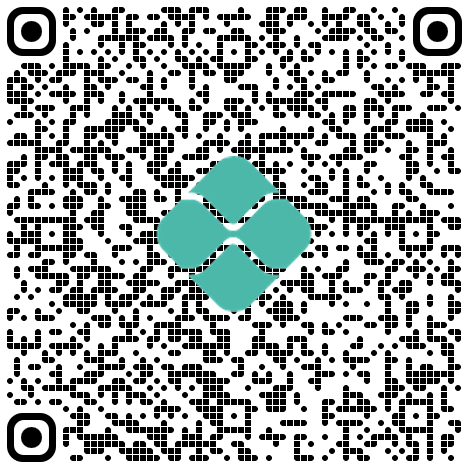
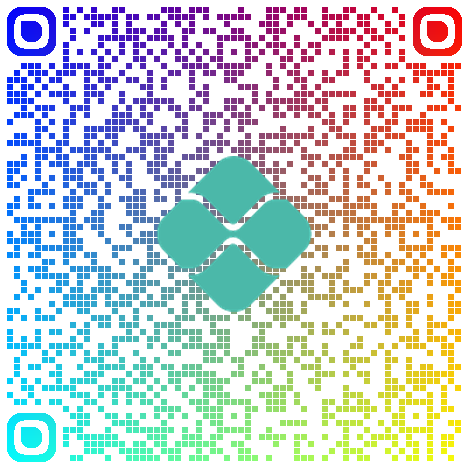
:lipstick: feat: adiciona degradê aos estilos.

diff --git a/pypix/core/qrgen.py b/pypix/core/qrgen.py
@@ -2,10 +2,11 @@ import qrcode
 from qrcode.image.styledpil import StyledPilImage
 from PIL import Image
 from typing import Optional
-from .styles.marker_styles import MarkerStyle, MARKER_SVGS
-from .styles.border_styles import BorderStyle, BORDER_SVGS
-from .styles.line_styles import LineStyle, LINE_STYLES
-from .utils.image_utils import svg_to_pil, add_center_image
+from pypix.core.styles.qr_styler import QRCodeStyler, GradientMode
+from pypix.core.styles.marker_styles import MarkerStyle, MARKER_SVGS
+from pypix.core.styles.border_styles import BorderStyle, BORDER_SVGS
+from pypix.core.styles.line_styles import LineStyle, LINE_STYLES
+from pypix.core.utils.image_utils import svg_to_pil, add_center_image
 
 
 class Generator(qrcode.QRCode):
@@ -16,6 +17,7 @@ class Generator(qrcode.QRCode):
         self.box_size = None
         self.error_correction = None
         self.version = None
+        self.style_mode = None
 
     def create_custom_qr(
         self,
@@ -26,11 +28,15 @@ class Generator(qrcode.QRCode):
         marker_style: MarkerStyle = MarkerStyle.PLUS,
         border_style: BorderStyle = BorderStyle.CIRCLE,
         line_style: LineStyle = LineStyle.ROUNDED,
+        gradient_color: str = "blue",
+        gradient_mode: GradientMode = GradientMode.GRADIENT,
+        style_mode: str = 'Normal'
     ) -> Image.Image:
         self.version = 7
         self.error_correction = qrcode.constants.ERROR_CORRECT_H
         self.box_size = size
         self.border = border
+        self.style_mode = style_mode
 
         self.add_data(data)
         self.make(fit=True)
@@ -43,6 +49,12 @@ class Generator(qrcode.QRCode):
         )
         img = img.convert("RGBA")
 
+        img = QRCodeStyler.apply_gradient(
+            img,
+            color=gradient_color,
+            mode=gradient_mode
+        )
+
         border_img = svg_to_pil(BORDER_SVGS[border_style], size * 7)
         center_img = svg_to_pil(MARKER_SVGS[marker_style], size * 3)
 
@@ -53,6 +65,13 @@ class Generator(qrcode.QRCode):
             size,
             border
         )
+
+        if self.style_mode == "Full":
+            img = QRCodeStyler.apply_gradient(
+                img,
+                color=gradient_color,
+                mode=gradient_mode
+            )
 
         if center_image:
             add_center_image(img, center_image)

diff --git a/pypix/core/styles/qr_styler.py b/pypix/core/styles/qr_styler.py
@@ -1,0 +1,44 @@
+from enum import Enum
+from PIL import Image, ImageColor
+
+
+class GradientMode(Enum):
+    NORMAL = "normal"
+    GRADIENT = "gradient"
+    MULTI = "multi"
+
+
+class QRCodeStyler:
+    @staticmethod
+    def apply_gradient(
+        img: Image.Image,
+        color: str | tuple = "blue",
+        mode: GradientMode = GradientMode.GRADIENT
+    ) -> Image.Image:
+        width, height = img.size
+
+        if isinstance(color, str):
+            color = ImageColor.getrgb(color)
+
+        gradient = Image.new('RGB', (width, height), color=0)
+
+        for x in range(width):
+            for y in range(height):
+                if mode == GradientMode.MULTI:
+                    r = int((x / width) * 255)
+                    g = int((y / height) * 255)
+                    b = 255 - r
+                    gradient.putpixel((x, y), (r, g, b))
+
+                elif mode == GradientMode.GRADIENT:
+                    factor = (x + y) / (width + height)
+                    r = int(color[0] * factor)
+                    g = int(color[1] * factor)
+                    b = int(color[2] * factor)
+                    gradient.putpixel((x, y), (r, g, b))
+
+                elif mode == GradientMode.NORMAL:
+                    gradient.putpixel((x, y), color)
+
+        mask = img.convert('L').point(lambda i: i < 255 and 255)
+        return Image.composite(gradient, img.convert('RGB'), mask)

diff --git a/tests/test_generator.py b/tests/test_generator.py
@@ -1,0 +1,30 @@
+import pytest
+from pypix.core.qrgen import Generator
+from pypix.core.styles.marker_styles import MarkerStyle
+from pypix.core.styles.border_styles import BorderStyle
+from pypix.core.styles.line_styles import LineStyle
+from pypix.core.styles.qr_styler import QRCodeStyler, GradientMode
+
+
+@pytest.mark.parametrize("style_mode", [GradientMode.NORMAL, GradientMode.GRADIENT, GradientMode.MULTI])
+@pytest.mark.parametrize("color", ["red", "blue", "green", "#FF00FF"])
+def test_generate_qr_with_styles(style_mode, color):
+    generator = Generator()
+    generator.style_mode = style_mode
+
+    QRCodeStyler.mode = style_mode
+    QRCodeStyler.color = color
+
+    img = generator.create_custom_qr(
+        data="https://example.com",
+        size=10,
+        border=4,
+        center_image=None,
+        marker_style=MarkerStyle.PLUS,
+        border_style=BorderStyle.CIRCLE,
+        line_style=LineStyle.ROUNDED,
+    )
+
+    assert img is not None
+    assert img.size[0] > 0 and img.size[1] > 0
+    assert img.mode in ["RGB", "RGBA"]

diff --git a/pypix/main.py b/pypix/main.py
@@ -1,4 +1,5 @@
 from pypix.pix import Pix
+from pypix.core.styles.qr_styler import GradientMode
 from pypix.core.styles.marker_styles import MarkerStyle
 from pypix.core.styles.border_styles import BorderStyle
 from pypix.core.styles.line_styles import LineStyle
@@ -46,9 +47,12 @@ if __name__ == '__main__':
         box_size=7,
         border=1,
         custom_logo="pix.png",
-        marker_style=MarkerStyle.CIRCLE,
+        marker_style=MarkerStyle.QUARTER_CIRCLE,
         border_style=BorderStyle.ROUNDED,
         line_style=LineStyle.ROUNDED,
+        gradient_color="green",
+        gradient_mode=GradientMode.MULTI,
+        style_mode="Full"  # Normal
     )
     # pix.qr_ascii()  # Imprime qrcode no terminal
 

diff --git a/README.md b/README.md
@@ -16,6 +16,7 @@ poetry install
 
 ```python
 from pypix.pix import Pix
+from pypix.core.styles.qr_styler import GradientMode
 from pypix.core.styles.marker_styles import MarkerStyle
 from pypix.core.styles.border_styles import BorderStyle
 from pypix.core.styles.line_styles import LineStyle
@@ -65,9 +66,12 @@ if __name__ == '__main__':
         box_size=7,
         border=1,
         custom_logo="pix.png",
-        marker_style=MarkerStyle.CIRCLE,
+        marker_style=MarkerStyle.QUARTER_CIRCLE,
         border_style=BorderStyle.ROUNDED,
         line_style=LineStyle.ROUNDED,
+        gradient_color="green",
+        gradient_mode=GradientMode.MULTI,
+        style_mode="Full"  # Normal
     )
 
     pix.qr_ascii()  # Imprime qrcode no terminal
